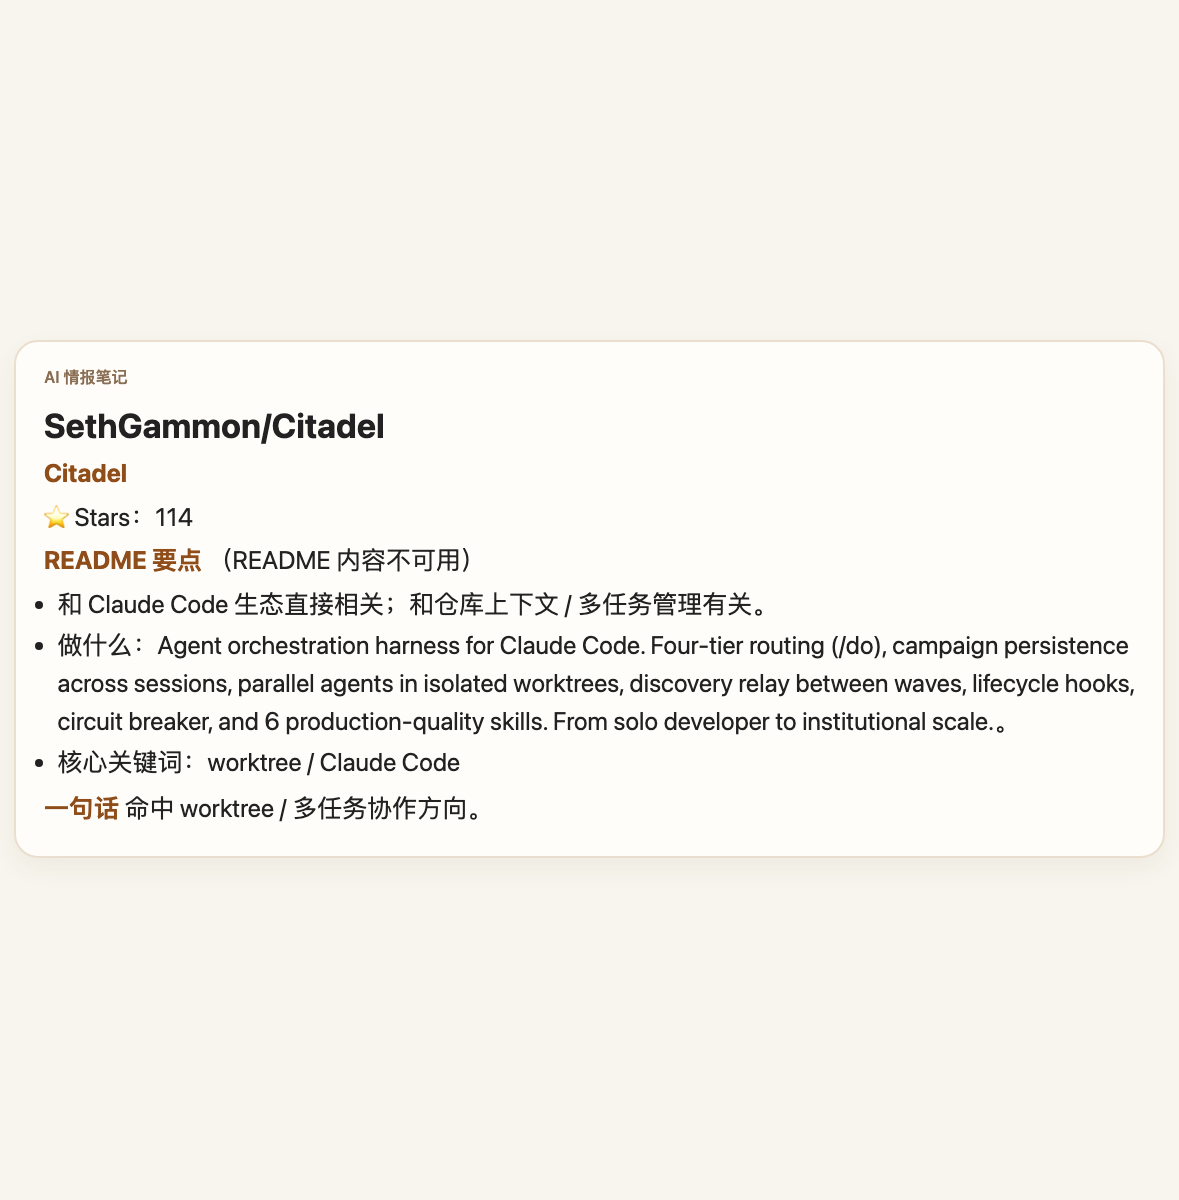
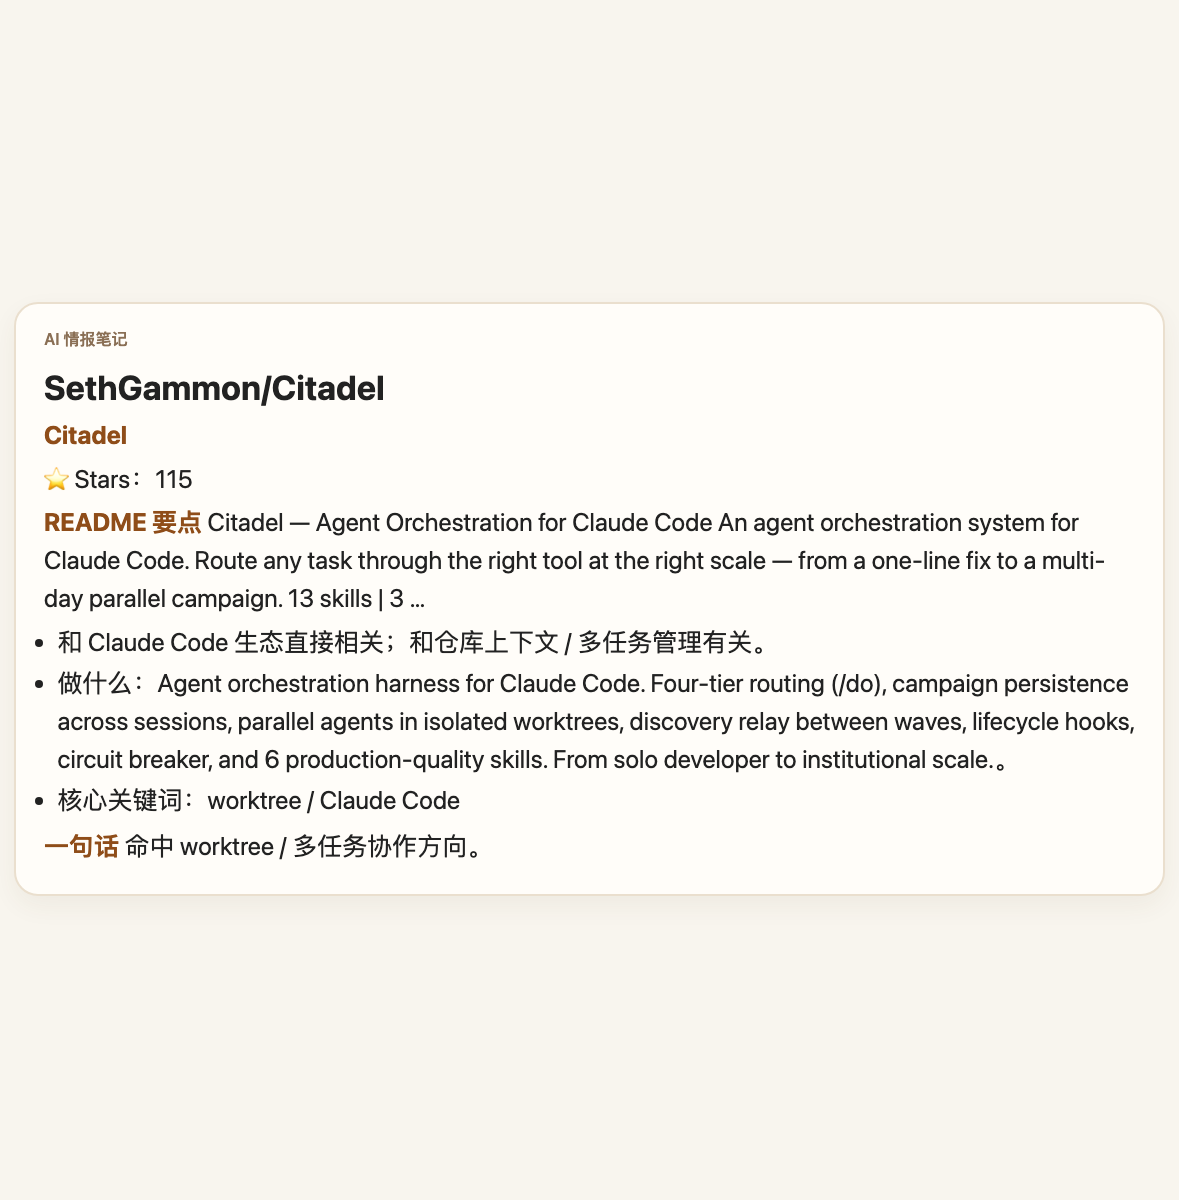
Add Xiaohongshu cards for GitHub AI Daily 2026-03-22

Changed region(s): [[0.0305, 0.2775, 0.9771, 0.74]]

diff --git a/xiaohongshu/github-ai-daily/2026-03-22-square-9/05-Citadel.md b/xiaohongshu/github-ai-daily/2026-03-22-square-9/05-Citadel.md
@@ -1,10 +1,10 @@
 ## SethGammon/Citadel
 **Citadel**
 
-⭐ Stars：114
+⭐ Stars：115
 
 **README 要点**
-（README 内容不可用）
+Citadel — Agent Orchestration for Claude Code An agent orchestration system for Claude Code. Route any task through the right tool at the right scale — from a one-line fix to a multi-day parallel campaign. 13 skills | 3 …
 
 - 和 Claude Code 生态直接相关；和仓库上下文 / 多任务管理有关。
 - 做什么：Agent orchestration harness for Claude Code. Four-tier routing (/do), campaign persistence across sessions, parallel agents in isolated worktrees, discovery relay between waves, lifecycle hooks, circuit breaker, and 6 production-quality skills. From solo developer to institutional scale.。

diff --git a/xiaohongshu/github-ai-daily/2026-03-22-square-9/10-deer-flow.md b/xiaohongshu/github-ai-daily/2026-03-22-square-9/10-deer-flow.md
@@ -1,0 +1,14 @@
+## bytedance/deer-flow
+**deer-flow**
+
+⭐ Stars：32737
+
+**README 要点**
+🦌 DeerFlow - 2.0 English | 中文 | 日本語 > On February 28th, 2026, DeerFlow claimed the 🏆 #1 spot on GitHub Trending following the launch of version 2. Thanks a million to our incredible community — you made this happen! 💪🔥 D…
+
+- 属于多 agent 编排层。
+- 做什么：An open-source SuperAgent harness that researches, codes, and creates. With the help of sandboxes, memories, tools, skills and subagents, it handles different levels of tasks that could take minutes to hours.。
+- 核心关键词：Subagent / sandbox
+
+**一句话**
+命中 subagent 方向。

diff --git a/xiaohongshu/github-ai-daily/2026-03-22-square-9/12-agentic.nvim.md b/xiaohongshu/github-ai-daily/2026-03-22-square-9/12-agentic.nvim.md
@@ -1,0 +1,14 @@
+## carlos-algms/agentic.nvim
+**agentic.nvim**
+
+⭐ Stars：323
+
+**README 要点**
+Agentic.nvim > ⚡ A Chat interface for AI agents in Neovim that works with any provider > supporting the Agent Client Protocol (ACP) > — including Claude, Gemini, Codex, OpenCode, Cursor Agent, Copilot, Auggie, > Mistral …
+
+- 和 Codex / 多 agent 编排方向相关；属于协议 / 工具接入层。
+- 做什么：Agentic Chat Interface directly in Neovim with ACP providers from Claude-Code, Gemini, Codex, OpenCode, and Cursor-agent。
+- 核心关键词：ACP / Neovim / Codex
+
+**一句话**
+命中协议 / 工具接入方向。

diff --git a/xiaohongshu/github-ai-daily/2026-03-22-square-9/08-agentpool.md b/xiaohongshu/github-ai-daily/2026-03-22-square-9/08-agentpool.md
@@ -1,0 +1,14 @@
+## phil65/agentpool
+**agentpool**
+
+⭐ Stars：113
+
+**README 要点**
+A unified agent orchestration hub that lets you configure and manage heterogeneous AI agents via YAML and expose them through standardized protocols. Documentation The Problem You want to use multiple AI agents together …
+
+- 和 Claude Code 生态直接相关；属于协议 / 工具接入层。
+- 做什么：一个统一的 agent 编排中枢：可以用 YAML 管理多种 AI agent，并通过 ACP / OpenCode Server 等标准协议对外暴露。
+- 核心关键词：ACP / Claude Code
+
+**一句话**
+命中协议 / 工具接入方向。

diff --git a/xiaohongshu/github-ai-daily/2026-03-22-square-9/09-superset.md b/xiaohongshu/github-ai-daily/2026-03-22-square-9/09-superset.md
@@ -1,0 +1,14 @@
+## superset-sh/superset
+**superset**
+
+⭐ Stars：7669
+
+**README 要点**
+The Code Editor for AI Agents Orchestrate swarms of Claude Code, Codex, and more in parallel.<br /> Works with any CLI agent. Built for local worktree-based development. Download for macOS &nbsp;&bull;&nbsp; Documentatio…
+
+- 和 Claude Code 生态直接相关；和 Codex / 多 agent 编排方向相关。
+- 做什么：IDE for the AI Agents Era - Run an army of Claude Code, Codex, etc. on your machine。
+- 核心关键词：Codex / Claude Code
+
+**一句话**
+命中终端 coding agent 方向。

diff --git a/xiaohongshu/github-ai-daily/2026-03-22-square-9/13-oh-my-pi.md b/xiaohongshu/github-ai-daily/2026-03-22-square-9/13-oh-my-pi.md
@@ -1,0 +1,14 @@
+## can1357/oh-my-pi
+**oh-my-pi**
+
+⭐ Stars：2254
+
+**README 要点**
+Fork of <a href="https://github.com/badlogic/pi-mono">badlogic/pi-mono</a> by <a href="https://github.com/mariozechner">@mariozechner</a> Table of Contents - Highlights - Installation - Getting Started - Terminal Setup -…
+
+- 属于多 agent 编排层。
+- 做什么：⌥ AI Coding agent for the terminal — hash-anchored edits, optimized tool harness, LSP, Python, browser, subagents, and more。
+- 核心关键词：Subagent / terminal
+
+**一句话**
+命中 subagent 方向。

diff --git a/xiaohongshu/github-ai-daily/2026-03-22-square-9/04-codex.md b/xiaohongshu/github-ai-daily/2026-03-22-square-9/04-codex.md
@@ -1,0 +1,13 @@
+## openai/codex
+**codex rust-v0.116.0**
+
+发布时间：2026-03-20 01:51
+
+这一版继续加强 Codex CLI 与 IDE/编辑器接入，方向是把终端与编辑器工作流打通。
+
+- 这一版继续加强 Codex CLI 与 IDE/编辑器接入，方向是把终端与编辑器工作流打通。
+- #13702 fix(subagents) share execpolicy by default @dylan-hurd-oai
+- 这会继续降低从终端走向编辑器协同的切换成本。
+
+**一句话**
+这一版继续加强 Codex CLI 与 IDE/编辑器接入，方向是把终端与编辑器工作流打通。

diff --git a/xiaohongshu/github-ai-daily/2026-03-22-square-9/14-jcodemunch-mcp.md b/xiaohongshu/github-ai-daily/2026-03-22-square-9/14-jcodemunch-mcp.md
@@ -1,0 +1,14 @@
+## jgravelle/jcodemunch-mcp
+**jcodemunch-mcp**
+
+⭐ Stars：1203
+
+**README 要点**
+Quickstart - https://github.com/jgravelle/jcodemunch-mcp/blob/main/QUICKSTART.md FREE FOR PERSONAL USE Use it to make money, and Uncle J. gets a taste. Fair enough? details Cut code-reading token usage by 95% or more Mos…
+
+- 属于协议 / 工具接入层。
+- 做什么：The leading, most token-efficient MCP server for GitHub source code exploration via tree-sitter AST parsing。
+- 核心关键词：MCP
+
+**一句话**
+命中协议 / 工具接入方向。

diff --git a/xiaohongshu/github-ai-daily/2026-03-22-square-9/11-fast-agent.md b/xiaohongshu/github-ai-daily/2026-03-22-square-9/11-fast-agent.md
@@ -1,0 +1,14 @@
+## evalstate/fast-agent
+**fast-agent**
+
+⭐ Stars：3715
+
+**README 要点**
+> Please see : https://fast-agent.ai for latest documentation. There is also an LLMs.txt here fast-agent enables you to create and interact with sophisticated multimodal Agents and Workflows in minutes. It is the first f…
+
+- 属于协议 / 工具接入层。
+- 做什么：Code, Build and Evaluate agents - excellent Model and Skills/MCP/ACP Support。
+- 核心关键词：MCP / ACP
+
+**一句话**
+命中协议 / 工具接入方向。

diff --git a/xiaohongshu/github-ai-daily/2026-03-22-square-9/06-obsidian-agent-client.md b/xiaohongshu/github-ai-daily/2026-03-22-square-9/06-obsidian-agent-client.md
@@ -4,7 +4,7 @@
 ⭐ Stars：1294
 
 **README 要点**
-（README 内容不可用）
+Bring AI agents (Claude Code, Codex, Gemini CLI) directly into Obsidian. Chat with your AI assistant right from your vault. Built on Agent Client Protocol (ACP) by Zed. https://github.com/user-attachments/assets/1c538349…
 
 - 和 Claude Code 生态直接相关；和 Codex / 多 agent 编排方向相关；属于协议 / 工具接入层。
 - 做什么：把 Claude Code、Codex、Gemini CLI 等 AI agent 通过 ACP 接进 Obsidian。

diff --git a/xiaohongshu/github-ai-daily/2026-03-22-square-9/07-codeg.md b/xiaohongshu/github-ai-daily/2026-03-22-square-9/07-codeg.md
@@ -4,7 +4,7 @@
 ⭐ Stars：374
 
 **README 要点**
-（README 内容不可用）
+Codeg (Code Generation) is an enterprise-grade multi-agent coding workspace. It unifies local AI coding agents (Claude Code, Codex CLI, OpenCode, Gemini CLI, OpenClaw, etc.) in one desktop app with session aggregation, p…
 
 - 属于协议 / 工具接入层；属于多 agent 编排层；和仓库上下文 / 多任务管理有关。
 - 做什么：一个面向企业场景的多 Agent coding 工作台。
